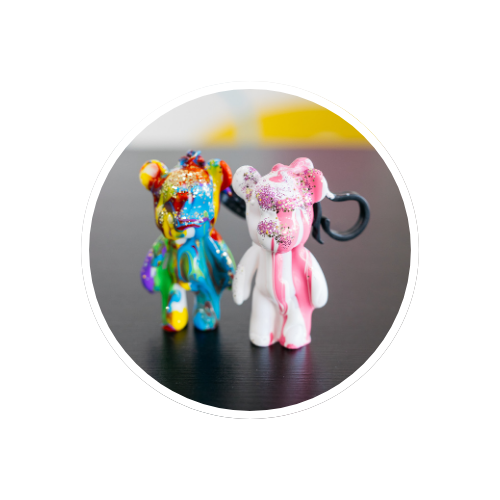
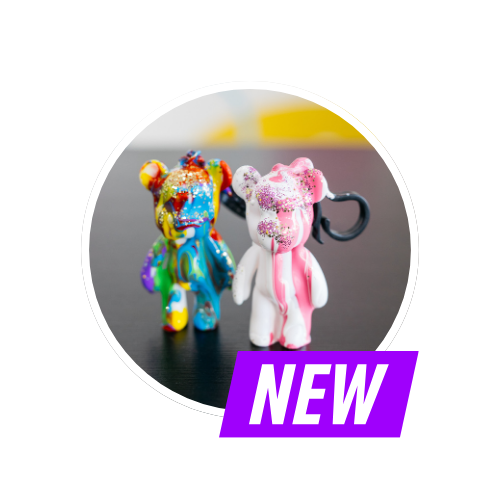
added new badge to new packages

Changed region(s): [[0.42, 0.69, 0.84, 0.9]]

diff --git a/src/components/react/navigation/navigation-menu.tsx b/src/components/react/navigation/navigation-menu.tsx
@@ -13,12 +13,19 @@ import NavigationMenuItemMobile from "./navigation-menu-item-mobile";
 import { cn } from "../lib/utils";
 import { useEffect, useRef, useState } from "react";
 
+export type MenuLink = {
+  type: "link";
+  title: string;
+  path: string;
+  isNew: boolean;
+};
+
 export type MenuItem =
-  | { type: "link"; title: string; path: string }
+  | MenuLink
   | ({
       type: "dropdown";
       title: string;
-      items: Readonly<{ type: "link"; title: string; path: string }[]>;
+      items: Readonly<MenuLink[]>;
     } & (
       | { clickable: true; path: string; subTitle: string }
       | { clickable: false }
@@ -36,56 +43,67 @@ export const menu = [
         title: "Glam Parties",
         path: "/birthday-parties/glam-parties/",
         type: "link",
+        isNew: false,
       },
       {
         title: "Science Parties",
         path: "/birthday-parties/science-parties/",
         type: "link",
+        isNew: false,
       },
       {
         title: "Slime Parties",
         path: "/birthday-parties/slime-parties/",
         type: "link",
+        isNew: false,
       },
       {
         title: "K-Pop Demon Hunters Parties",
         path: "/birthday-parties/k-pop-demon-hunters-parties",
         type: "link",
+        isNew: true,
       },
       {
         title: "Fairy Parties",
         path: "/birthday-parties/fairy-parties",
         type: "link",
+        isNew: false,
       },
       {
         title: "Fluid Bears Parties",
         path: "/birthday-parties/fluid-bears-parties",
         type: "link",
+        isNew: true,
       },
       {
         title: "Safari Parties",
         path: "/birthday-parties/safari-parties/",
         type: "link",
+        isNew: false,
       },
       {
         title: "Unicorn Parties",
         path: "/birthday-parties/unicorn-parties/",
         type: "link",
+        isNew: false,
       },
       {
         title: "Tie Dye Parties",
         path: "/birthday-parties/tie-dye-parties/",
         type: "link",
+        isNew: false,
       },
       {
         title: "Taylor Swift Parties",
         path: "/birthday-parties/taylor-swift-parties/",
         type: "link",
+        isNew: false,
       },
       {
         title: "At Home Parties",
         path: "/birthday-parties/at-home-parties/",
         type: "link",
+        isNew: false,
       },
     ],
   },
@@ -93,11 +111,13 @@ export const menu = [
     type: "link",
     title: "Holiday programs",
     path: "/holiday-programs/",
+    isNew: false,
   },
   {
     type: "link",
     title: "Play lab (1.5 - 5 yrs)",
     path: "/play-lab",
+    isNew: false,
   },
   // {
   //   type: "dropdown",
@@ -127,14 +147,21 @@ export const menu = [
         type: "link",
         title: "After school programs",
         path: "/in-schools/after-school-programs/",
+        isNew: false,
       },
-      { type: "link", title: "Incursions", path: "/in-schools/incursions/" },
+      {
+        type: "link",
+        title: "Incursions",
+        path: "/in-schools/incursions/",
+        isNew: false,
+      },
     ],
   },
   {
     title: "Activations and events",
     type: "link",
     path: "/activations-and-events/",
+    isNew: false,
   },
   {
     title: "Locations",
@@ -143,11 +170,36 @@ export const menu = [
     path: "/locations",
     subTitle: "See All Locations",
     items: [
-      { type: "link", path: "/locations/balwyn", title: "Balwyn" },
-      { type: "link", path: "/locations/cheltenham", title: "Cheltenham" },
-      { type: "link", path: "/locations/essendon", title: "Essendon" },
-      { type: "link", path: "/locations/kingsville", title: "Kingsville" },
-      { type: "link", path: "/locations/malvern", title: "Malvern" },
+      {
+        type: "link",
+        path: "/locations/balwyn",
+        title: "Balwyn",
+        isNew: false,
+      },
+      {
+        type: "link",
+        path: "/locations/cheltenham",
+        title: "Cheltenham",
+        isNew: false,
+      },
+      {
+        type: "link",
+        path: "/locations/essendon",
+        title: "Essendon",
+        isNew: false,
+      },
+      {
+        type: "link",
+        path: "/locations/kingsville",
+        title: "Kingsville",
+        isNew: false,
+      },
+      {
+        type: "link",
+        path: "/locations/malvern",
+        title: "Malvern",
+        isNew: false,
+      },
     ],
   },
 
@@ -161,11 +213,12 @@ export const menu = [
         type: "link",
         title: "Contact Us",
         path: "/contact-us/",
+        isNew: false,
       },
-      { type: "link", title: "Careers", path: "/careers/" },
-      { type: "link", title: "Our Team", path: "/our-team/" },
+      { type: "link", title: "Careers", path: "/careers/", isNew: false },
+      { type: "link", title: "Our Team", path: "/our-team/", isNew: false },
       // { type: "link", title: "Franchising", path: "/franchising" },
-      { type: "link", title: "Policies", path: "/policies/" },
+      { type: "link", title: "Policies", path: "/policies/", isNew: false },
     ],
   },
 ] as const satisfies MenuItem[];
@@ -294,6 +347,7 @@ function NavigationMenu() {
                             key={item.title}
                             title={item.title}
                             path={item.path}
+                            isNew={item.isNew}
                             nested
                           />
                         ))}
@@ -306,6 +360,7 @@ function NavigationMenu() {
                       key={menuItem.title}
                       title={menuItem.title}
                       path={menuItem.path}
+                      isNew={menuItem.isNew}
                       nested={false}
                     />
                   );

diff --git a/src/components/react/ui/badge.tsx b/src/components/react/ui/badge.tsx
@@ -1,0 +1,36 @@
+import * as React from "react";
+import { cva, type VariantProps } from "class-variance-authority";
+
+import { cn } from "@/react-lib/utils";
+
+const badgeVariants = cva(
+  "inline-flex items-center rounded-full border px-2.5 py-0.5 text-xs font-semibold transition-colors focus:outline-none focus:ring-2 focus:ring-ring focus:ring-offset-2",
+  {
+    variants: {
+      variant: {
+        default:
+          "border-transparent bg-[#4DC5DA] font-bold text-white hover:bg-[#4DC5DA]]/80",
+        secondary:
+          "border-transparent bg-secondary text-secondary-foreground hover:bg-secondary/80",
+        destructive:
+          "border-transparent bg-destructive text-destructive-foreground hover:bg-destructive/80",
+        outline: "text-foreground",
+      },
+    },
+    defaultVariants: {
+      variant: "default",
+    },
+  },
+);
+
+export interface BadgeProps
+  extends React.HTMLAttributes<HTMLDivElement>,
+    VariantProps<typeof badgeVariants> {}
+
+function Badge({ className, variant, ...props }: BadgeProps) {
+  return (
+    <div className={cn(badgeVariants({ variant }), className)} {...props} />
+  );
+}
+
+export { Badge, badgeVariants };

diff --git a/src/components/react/navigation/navigation-menu-dropdown.tsx b/src/components/react/navigation/navigation-menu-dropdown.tsx
@@ -5,6 +5,7 @@ import { Button } from "../ui/button";
 import NavigationMenuItemDesktop from "./navigation-menu-item-desktop";
 import { cn } from "../lib/utils";
 import { useState } from "react";
+import type { MenuLink } from "./navigation-menu";
 
 function NavigationMenuDropdown({
   title,
@@ -18,12 +19,12 @@ function NavigationMenuDropdown({
   subtitle?: string;
   submenus: Readonly<
     (
-      | { type: "link"; title: string; path: string }
+      | MenuLink
       | {
           type: "dropdown";
           title: string;
           path?: string;
-          items: Readonly<{ title: string; path: string }[]>;
+          items: Readonly<Omit<MenuLink, "type">[]>;
         }
     )[]
   >;
@@ -77,6 +78,7 @@ function NavigationMenuDropdown({
               <NavigationMenuItemDesktop
                 path={menu.path}
                 title={menu.title}
+                isNew={menu.isNew}
                 key={idx}
                 className={isBreadcrumb ? "text-sm" : ""}
               />

diff --git a/src/components/react/navigation/navigation-menu-item-desktop.tsx b/src/components/react/navigation/navigation-menu-item-desktop.tsx
@@ -1,14 +1,17 @@
 import { Button } from "../ui/button";
 import type { HTMLAttributes } from "react";
 import { cn } from "../lib/utils";
+import { Badge } from "../ui/badge";
 
 function NavigationMenuItemDesktop({
   path,
   title,
+  isNew = false,
   className = "",
 }: {
   path: string;
   title: string;
+  isNew?: boolean;
   className?: HTMLAttributes<any>["className"];
 }) {
   return (
@@ -24,6 +27,7 @@ function NavigationMenuItemDesktop({
         className="w-full p-3 text-start decoration-[#B14795] decoration-2 underline-offset-4 group-hover:underline"
       >
         {title}
+        {isNew && <Badge className="ml-2">New!</Badge>}
       </a>
     </Button>
   );

diff --git a/src/components/react/navigation/navigation-menu-item-mobile.tsx b/src/components/react/navigation/navigation-menu-item-mobile.tsx
@@ -1,14 +1,17 @@
 import { cn } from "../lib/utils";
+import { Badge } from "../ui/badge";
 
 function NavigationMenuItemMobile({
   title,
   path,
   nested,
+  isNew = false,
   italic = false,
 }: {
   title: string;
   path: string;
   nested: boolean;
+  isNew?: boolean;
   italic?: boolean;
 }) {
   return (
@@ -24,6 +27,7 @@ function NavigationMenuItemMobile({
         })}
       >
         {title}
+        {isNew && <Badge className="ml-2">New!</Badge>}
       </a>
     </div>
   );
